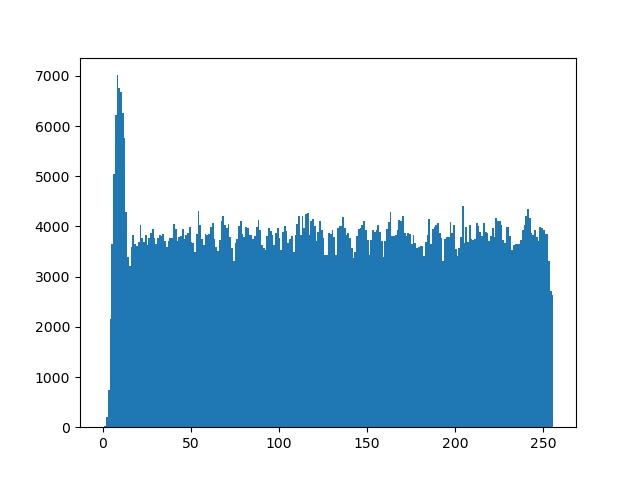
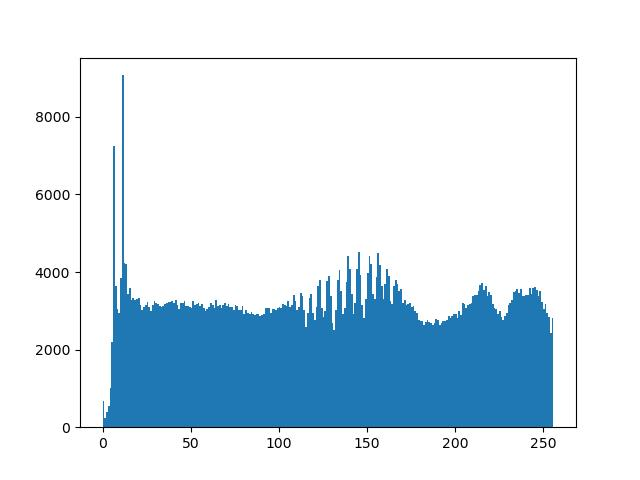
a

diff --git a/main.py b/main.py
@@ -18,6 +18,7 @@ from filters.sobel import sobelCv
 from filters.thresholding import thresholdingCv
 from filters.watershedWithCount import watershedWithCountCv
 from filters.zeroCross import laplace_of_gaussian
+from numpy import double
 
 
 class MyWidget(QtWidgets.QWidget):
@@ -58,7 +59,7 @@ class MyWidget(QtWidgets.QWidget):
         self.prewittButton = self.newButton(
             "Prewitt", 10, 290, 150, 25, self.prewittButtonEventOnClick)
         self.sobelButton = self.newButton(
-            "Sobel", 10, 325, 150, 25, self.sobelButtonEventOnClick)
+            "Sobel (ver+hor)", 10, 325, 150, 25, self.sobelButtonEventOnClick)
         self.logButton = self.newButton(
             "Log", 10, 360, 150, 25, self.logButtonEventOnClick)
         self.cannyButton = self.newButton(
@@ -223,10 +224,10 @@ class MyWidget(QtWidgets.QWidget):
         Evento do botão que aplica o filtro passa alta de alto contraste.
         """
         varM = self.showDialogInt("Tamanho da matriz", "valor de 1 a 12:", 3)
-        varP = self.showDialogInt("Valor de sigma", "valor < 1:", 1)
+        varP = self.showDialogDouble("Valor de sigma", "valor < 1:", 1.0)
         try:
             image = highpassCv(imageReadCv("lastImage.jpg"),
-                               int(varM), int(varP))
+                               int(varM), float(varP))
             self.listImages.append(image)
             self.saveLastImage()
         except:

diff --git a/filters/highpass.py b/filters/highpass.py
@@ -4,7 +4,7 @@ import numpy as np
 from filters.highpassBasic import highpassBasicCv
 
 
-def highpassCv(image, figure_size=3, sigma=1):
+def highpassCv(image, figure_size=3, sigma=1.0):
     """
     Aplica o filtro de passa alta de alto contraste na imagem.
     Parameters:
@@ -12,5 +12,6 @@ def highpassCv(image, figure_size=3, sigma=1):
     figure_size -> Tamanho da matriz.
     sigma -> Parametro de peso do filtro.
     """
+    sigma = sigma-1
     data = np.array(image, dtype=float)
     return (sigma*data)+highpassBasicCv(image, figure_size)

diff --git a/filters/prewitt.py b/filters/prewitt.py
@@ -12,4 +12,6 @@ def prewittCv(image):
     kernely = np.array([[-1, 0, 1], [-1, 0, 1], [-1, 0, 1]])
     img_prewittx = cv2.filter2D(image, -1, kernelx)
     img_prewitty = cv2.filter2D(image, -1, kernely)
-    return img_prewittx+img_prewitty
+    absX = cv2.convertScaleAbs(img_prewittx)
+    absY = cv2.convertScaleAbs(img_prewitty)
+    return cv2.addWeighted(absX, 0.5, absY, 0.5, 0)

diff --git a/filters/roberts.py b/filters/roberts.py
@@ -13,5 +13,7 @@ def robertsCv(image):
 
     x = cv2.filter2D(image, cv2.CV_16S, kernelX)
     y = cv2.filter2D(image, cv2.CV_16S, kernelY)
+    absX = cv2.convertScaleAbs(x)
+    absY = cv2.convertScaleAbs(y)
 
-    return cv2.addWeighted(x, 0.5, y, 0.5, 0)
+    return cv2.addWeighted(absX, 0.5, absY, 0.5, 0)

diff --git a/filters/canny.py b/filters/canny.py
@@ -7,5 +7,4 @@ def cannyCv(image):
     Parameters:
     image -> imagem que recebera o filtro.
     """
-    imageBlur = cv2.GaussianBlur(image, (3, 3), 0)
-    return cv2.Canny(image=imageBlur, threshold1=100, threshold2=200)
+    return cv2.Canny(image=image, threshold1=100, threshold2=200)
